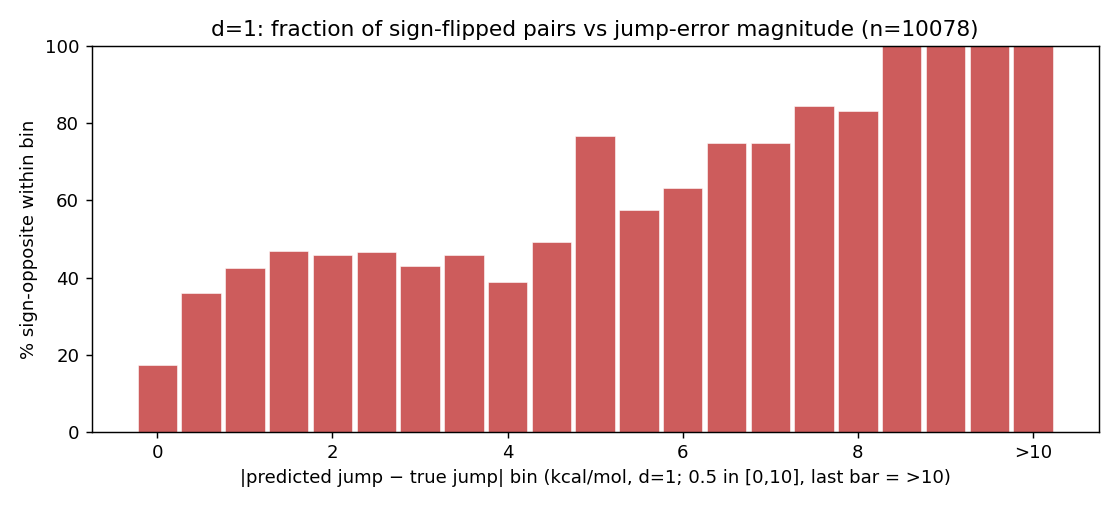
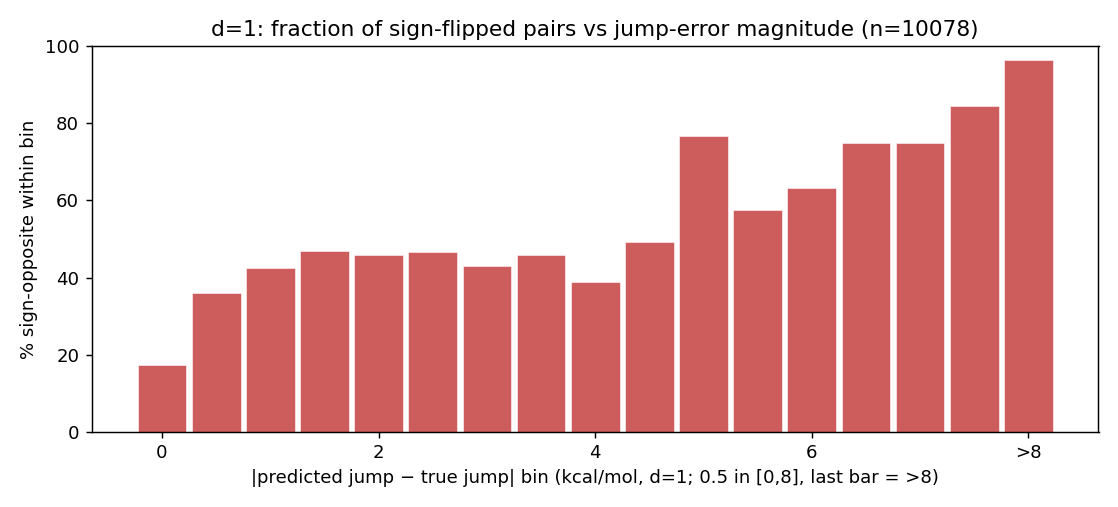
mutation-cliff §4.2: both d=1 figures bins -> [0,8) step 0.5 + >8 (>8 hist 0.3%, sign-flip 97% n=29)

diff --git a/reproduce/mutation_cliff_viz.py b/reproduce/mutation_cliff_viz.py
@@ -229,17 +229,17 @@ print(ext[["PDB","site","d","ddG_A","ddG_B","true_jump","pred_jump","diff_percen
 d1e=P[P.d==1].copy(); d1e["jerr"]=(d1e.pred_jump-d1e.true_jump).abs()
 print(f"\n=== d=1 |pred_jump−true_jump| 分布: n={len(d1e)} range[{d1e.jerr.min():.2f},{d1e.jerr.max():.2f}] "
       f"mean={d1e.jerr.mean():.2f} median={d1e.jerr.median():.2f} p90={d1e.jerr.quantile(.9):.2f} p99={d1e.jerr.quantile(.99):.2f} ===")
-# 分桶:[0,10) step=0.5(20 桶)+ 一个 >10 桶;y 轴为占比(%)
-hedges=[round(0.5*i,1) for i in range(21)]+[1e9]
+# 分桶:[0,8) step=0.5(16 桶)+ 一个 >8 桶;y 轴为占比(%)
+hedges=[round(0.5*i,1) for i in range(17)]+[1e9]
 hcnt=np.histogram(d1e.jerr.values,bins=hedges)[0]
 hpct=100*hcnt/len(d1e)
 hxs=np.arange(len(hpct))
-fig,ax=plt.subplots(figsize=(8.0,3.9))
+fig,ax=plt.subplots(figsize=(7.6,3.9))
 ax.bar(hxs,hpct,width=0.9,color="steelblue",edgecolor="white",linewidth=0.3)
-ax.set_xticks([0,4,8,12,16,20]); ax.set_xticklabels(["0","2","4","6","8",">10"])
-ax.set_xlabel("|predicted jump − true jump| (kcal/mol, d=1; bin=0.5 in [0,10], last bar = >10)")
+ax.set_xticks([0,4,8,12,16]); ax.set_xticklabels(["0","2","4","6",">8"])
+ax.set_xlabel("|predicted jump − true jump| (kcal/mol, d=1; bin=0.5 in [0,8], last bar = >8)")
 ax.set_ylabel("percentage of d=1 pairs (%)")
-ax.set_title(f"d=1 jump-prediction error (n={len(d1e)}; median={d1e.jerr.median():.2f}, p90={d1e.jerr.quantile(.9):.2f}, >10={100*(d1e.jerr>10).mean():.1f}%)")
+ax.set_title(f"d=1 jump-prediction error (n={len(d1e)}; median={d1e.jerr.median():.2f}, p90={d1e.jerr.quantile(.9):.2f}, >8={100*(d1e.jerr>8).mean():.1f}%)")
 fig.tight_layout(); fig.savefig(os.path.join(OUT,"d1_jumperr_hist.png")); plt.close(fig)
 
 # 同一分桶({0~4 by 0.1}∪{>4},按 |pred−true| 误差):每桶内 真值/预测跳变 符号相反的占比
@@ -252,8 +252,8 @@ for i in range(len(flip)):
     if fn[i]: print(f"  {hedges[i]:.1f}{'+' if i==len(flip)-1 else f'–{hedges[i+1]:.1f}'}: n={fn[i]} flip={flip[i]:.0f}%")
 fig,ax=plt.subplots(figsize=(8.6,3.9))
 ax.bar(hxs,flip,width=0.9,color="indianred",edgecolor="white",linewidth=0.3)
-ax.set_xticks([0,4,8,12,16,20]); ax.set_xticklabels(["0","2","4","6","8",">10"])
-ax.set_xlabel("|predicted jump − true jump| bin (kcal/mol, d=1; 0.5 in [0,10], last bar = >10)")
+ax.set_xticks([0,4,8,12,16]); ax.set_xticklabels(["0","2","4","6",">8"])
+ax.set_xlabel("|predicted jump − true jump| bin (kcal/mol, d=1; 0.5 in [0,8], last bar = >8)")
 ax.set_ylabel("% sign-opposite within bin"); ax.set_ylim(0,100)
 ax.set_title(f"d=1: fraction of sign-flipped pairs vs jump-error magnitude (n={len(d1e)})")
 fig.tight_layout(); fig.savefig(os.path.join(OUT,"d1_signflip_by_err.png")); plt.close(fig)

diff --git a/reproduce/RESEARCH_MOTIVATION_mutation_cliff.md b/reproduce/RESEARCH_MOTIVATION_mutation_cliff.md
@@ -139,12 +139,12 @@
 **d=1 全体的预测跳变误差分布**: 在所有 d=1 对(n=10078)上,`|预测跳变 − 真值跳变|` 的范围是 **[0.00, 14.04] kcal/mol**,
 mean 1.19 / median 0.85 / p90 2.61 / p99 5.83;**32.7% 的对 <0.5(预测准),但 17.3% >2、3.3% >4(严重失配)**。
 分布呈**长右尾**——多数 d=1 对预测尚可,但拖着一条粗重的"严重失配"尾巴(即上面"不正常组"那类 cliff)。
-(下图: 误差按 [0,10) 间隔 0.5 分桶、>10 聚成最后一根柱;纵轴为占全部 d=1 对的百分比,故 >10 那根柱仅 0.1%。)
+(下图: 误差按 [0,8) 间隔 0.5 分桶、>8 聚成最后一根柱;纵轴为占全部 d=1 对的百分比,故 >8 那根柱仅 0.3%。)
 
 <img src="mutation_analysis/d1_jumperr_hist.png" width="520">
 
 **同一分桶下,每个误差桶内"真值跳变 vs 预测跳变 符号相反"的占比**: 误差越大,符号判反的比例越高——
-从最小误差桶([0,0.5))的 **17%** 升到误差 ~1.5–3 的 **~45–47%**,误差 ≥5 的桶趋近 **100%**(但 >5 的桶样本极少、有抖动)。
+从最小误差桶([0,0.5))的 **17%** 升到误差 ~1.5–3 的 **~45–47%**,**>8 误差桶达 97%**(n=29;高误差桶样本少、有抖动)。
 说明**大误差不只是幅度压扁,相当一部分直接把方向也判反**(误差 >1.5 时已近半数符号相反)。
 
 <img src="mutation_analysis/d1_signflip_by_err.png" width="520">
